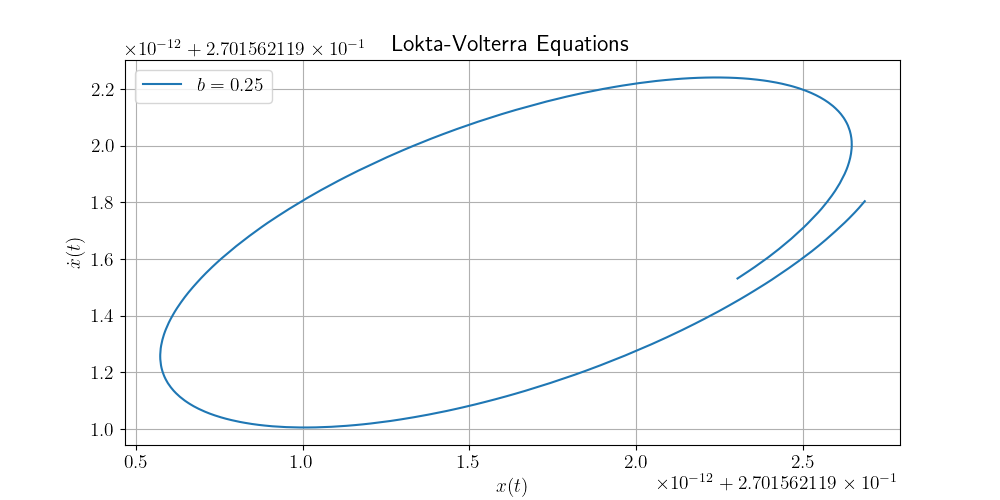
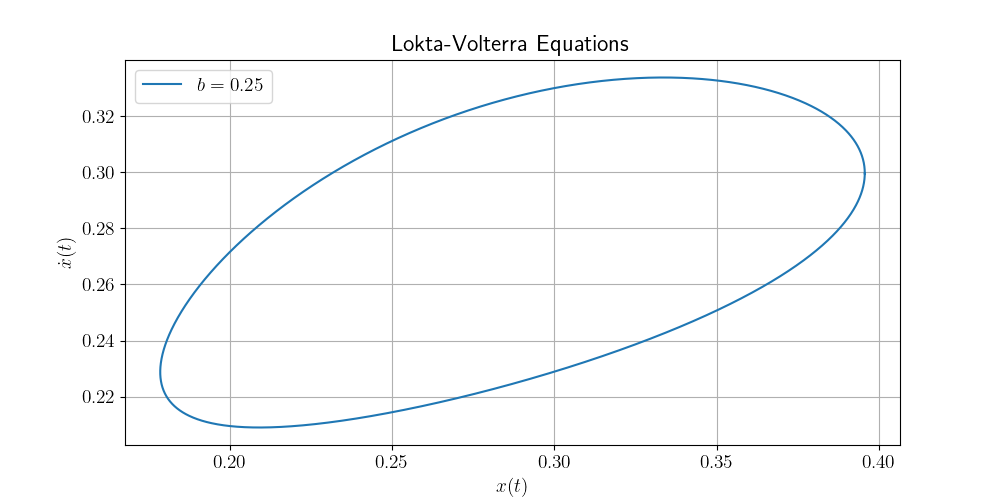
Overhalued Euler solve_to.

diff --git a/numerical_methods.py b/numerical_methods.py
@@ -15,6 +15,7 @@ Notes:
 
 import matplotlib.pyplot as plt
 import numpy as np
+import math
 from scipy.optimize import fsolve
 
 
@@ -25,7 +26,7 @@ def error_handle(f, x0, t, h, deltat_max):
     
     if isinstance(x0, (int, float)):
         x0 = [x0]
-    elif isinstance(x0, (list, np.ndarray)):
+    elif isinstance(x0, (list, tuple, np.ndarray)):
         x0 = x0
     else:
         raise TypeError("x is incorrect data type")
@@ -56,7 +57,7 @@ def graph_format(x_label, y_label, title, filename):
     plt.ylabel(y_label)
     plt.legend()
     plt.savefig(f"results/{filename}") 
-    
+      
 
 def midpoint_method(f, x, t, h):
     """Explicit midpoint method for ODE approximations
@@ -167,6 +168,18 @@ def runge_kutta(f, x, t, h):
     x_new = x + (h/6)*(k1 + 2*k2 + 2*k3 + k4)
     
     return x_new, t_new
+
+
+def step_calc(t1, t2, h):
+    no_steps = int((t2 - t1)/h)
+    final_h = ((t2 - t1)/h - int((t2 - t1)/h))*h
+    if not math.isclose(final_h, 0):
+        no_steps += 1
+    else:
+        final_h = 0
+        
+    return no_steps, final_h
+
     
   
 def solve_to(f, x0, t1, t2, h, method, deltat_max=0.5):
@@ -193,28 +206,36 @@ def solve_to(f, x0, t1, t2, h, method, deltat_max=0.5):
         
         
     x0 = error_handle(f, x0, t1, h, deltat_max)
-            
-    no_steps = int((t2 - t1)/h)
-    t = np.zeros(no_steps)
-    t[0], t[-1] = t1, t2
+    # add check to see if t1 > t2
     
-    x = np.zeros((len(x0), len(t)))
+    
+    no_steps, final_h = step_calc(t1, t2, h)          
+    t = np.zeros(no_steps)
+    t[0] = t1
+    x = np.zeros((len(x0), no_steps))
     for ind, iv in enumerate(x0):
         x[ind][0] = iv
-    
     
     match method:
         
         case "Euler":
-            for i in range(len(t) - 1):
-                args = []
+            t_new, ind = 0, 0
+            while round(t_new + h, 3) < t2:
+                x_args = []
                 for j in range(len(x0)):
-                    args.append(x[j][i])
-                for j in range(len(x0)):
-                    x_new, t_new = eurler_step(f, args, t[i], h, solve_to=True)
-                    for k in range(len(x_new)):
-                        x[k][i+1] = x_new[k]
-                    t[i+1] = t_new
+                    x_args.append(x[j][ind])
+                x_new, t_new = eurler_step(f, x_args, t[ind], h, solve_to=True)
+                for k in range(len(x_new)):
+                    x[k][ind + 1] = x_new[k]  
+                t[ind + 1] = t_new
+                ind += 1   
+            
+            if final_h:
+                x_new, t_new = eurler_step(f, x_args, t[-2], final_h, solve_to=True)
+                
+                for k in range(len(x_new)):
+                    x[k][-1] = x_new[k]
+                t[-1] = t_new
                  
                           
         case "RK4First":
@@ -277,7 +298,7 @@ def shooting(ode, x0, period, phase, method="Euler", h=0.01):
         return np.append(f, p)
     
     
-    x0 = x0 + [period]    
+    x0 = x0 + [period]  
     x0, info, ier, msg = fsolve(root_ode, x0, full_output=True)
     period = x0[-1]
     
@@ -285,7 +306,7 @@ def shooting(ode, x0, period, phase, method="Euler", h=0.01):
         print(f"Root finder found the solution x={x0} after {info['nfev']} function calls")         
     else:
         print(f"Root finder failed with error message: {msg}")
-        return
+        return 
     
     x, t = solve_to(ode, x0[0:-1], 0, period, 0.01, method)
     
